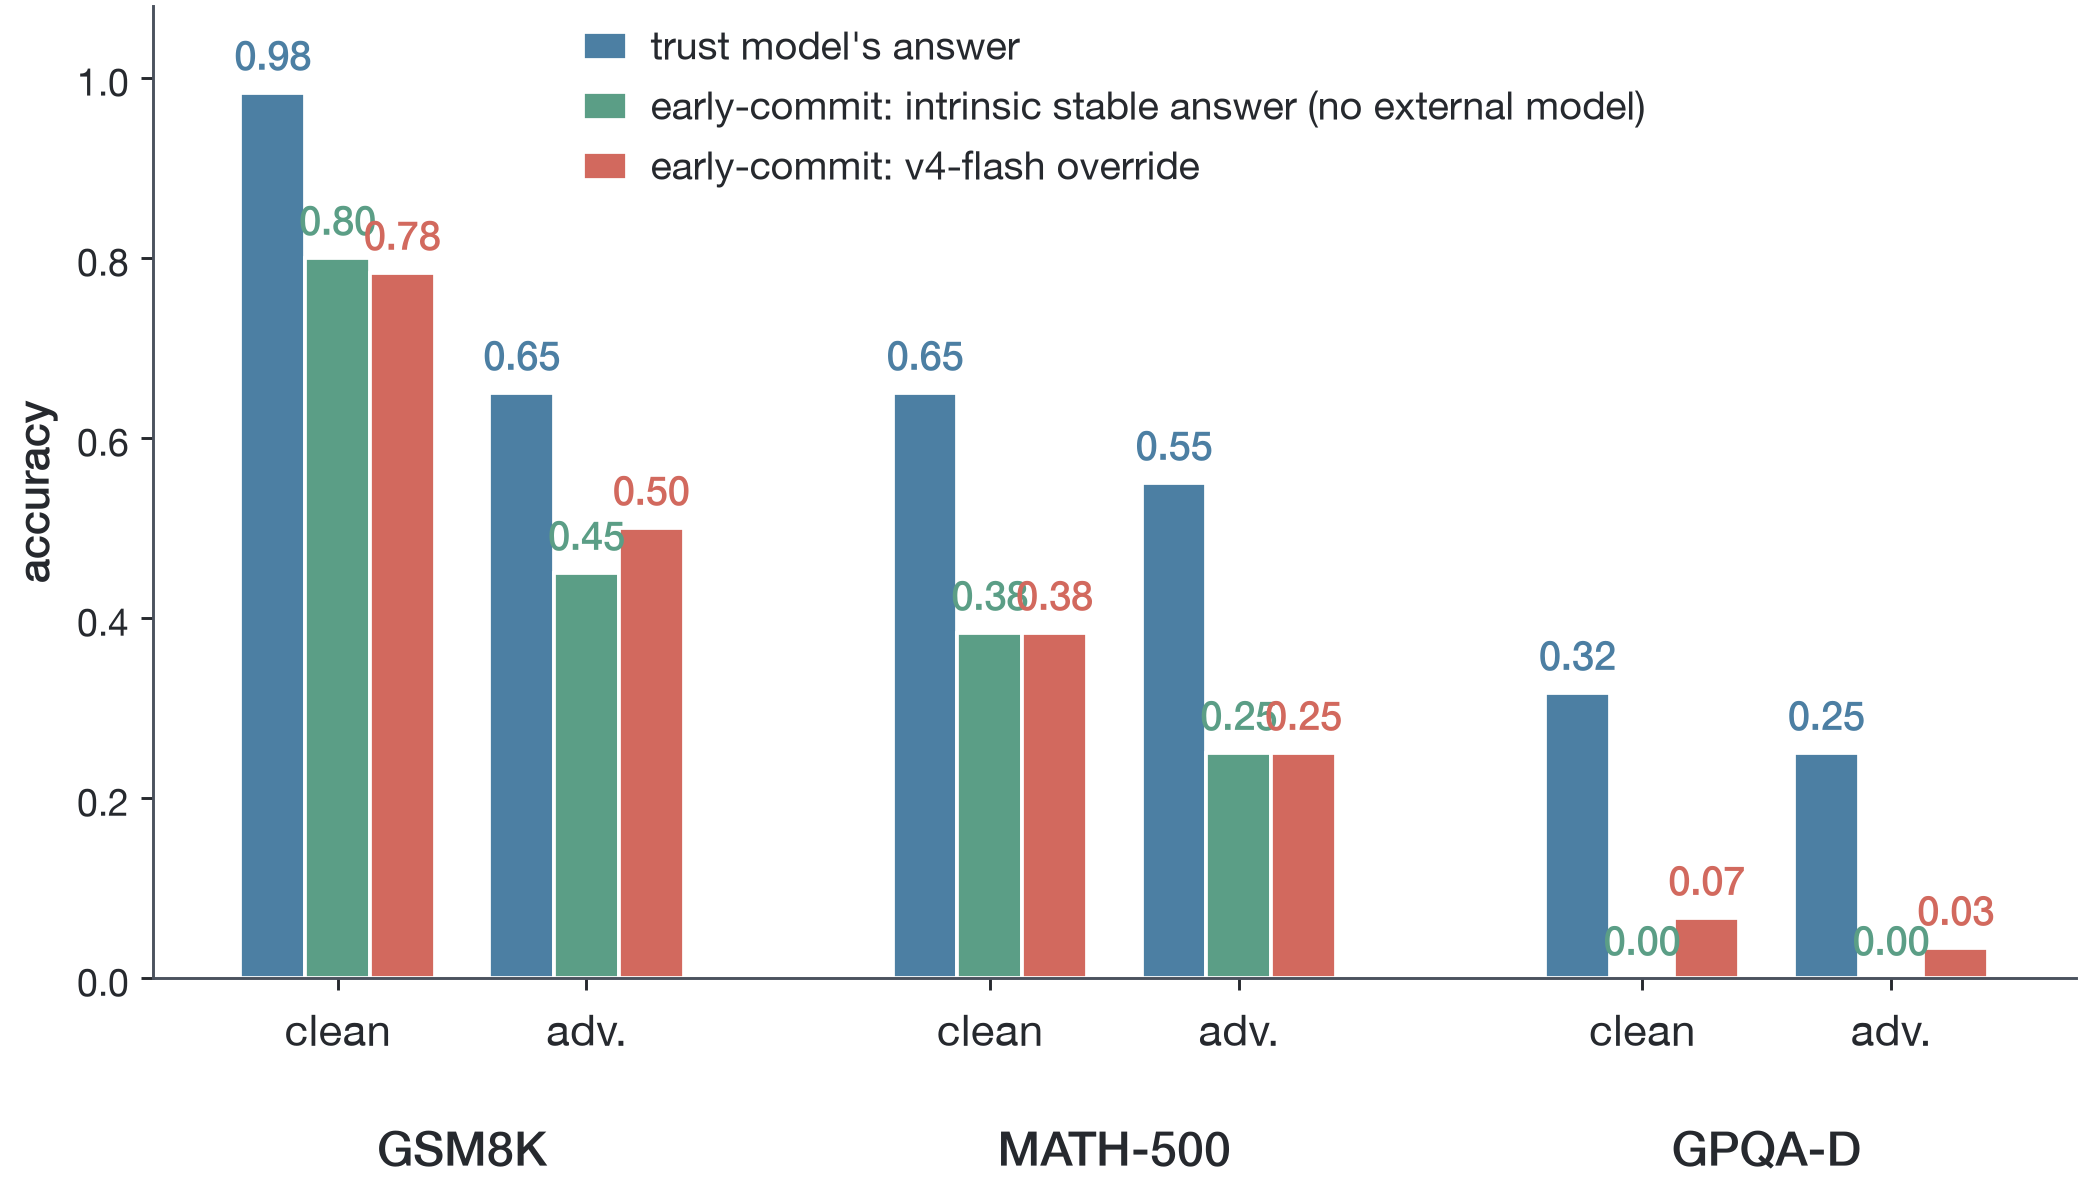
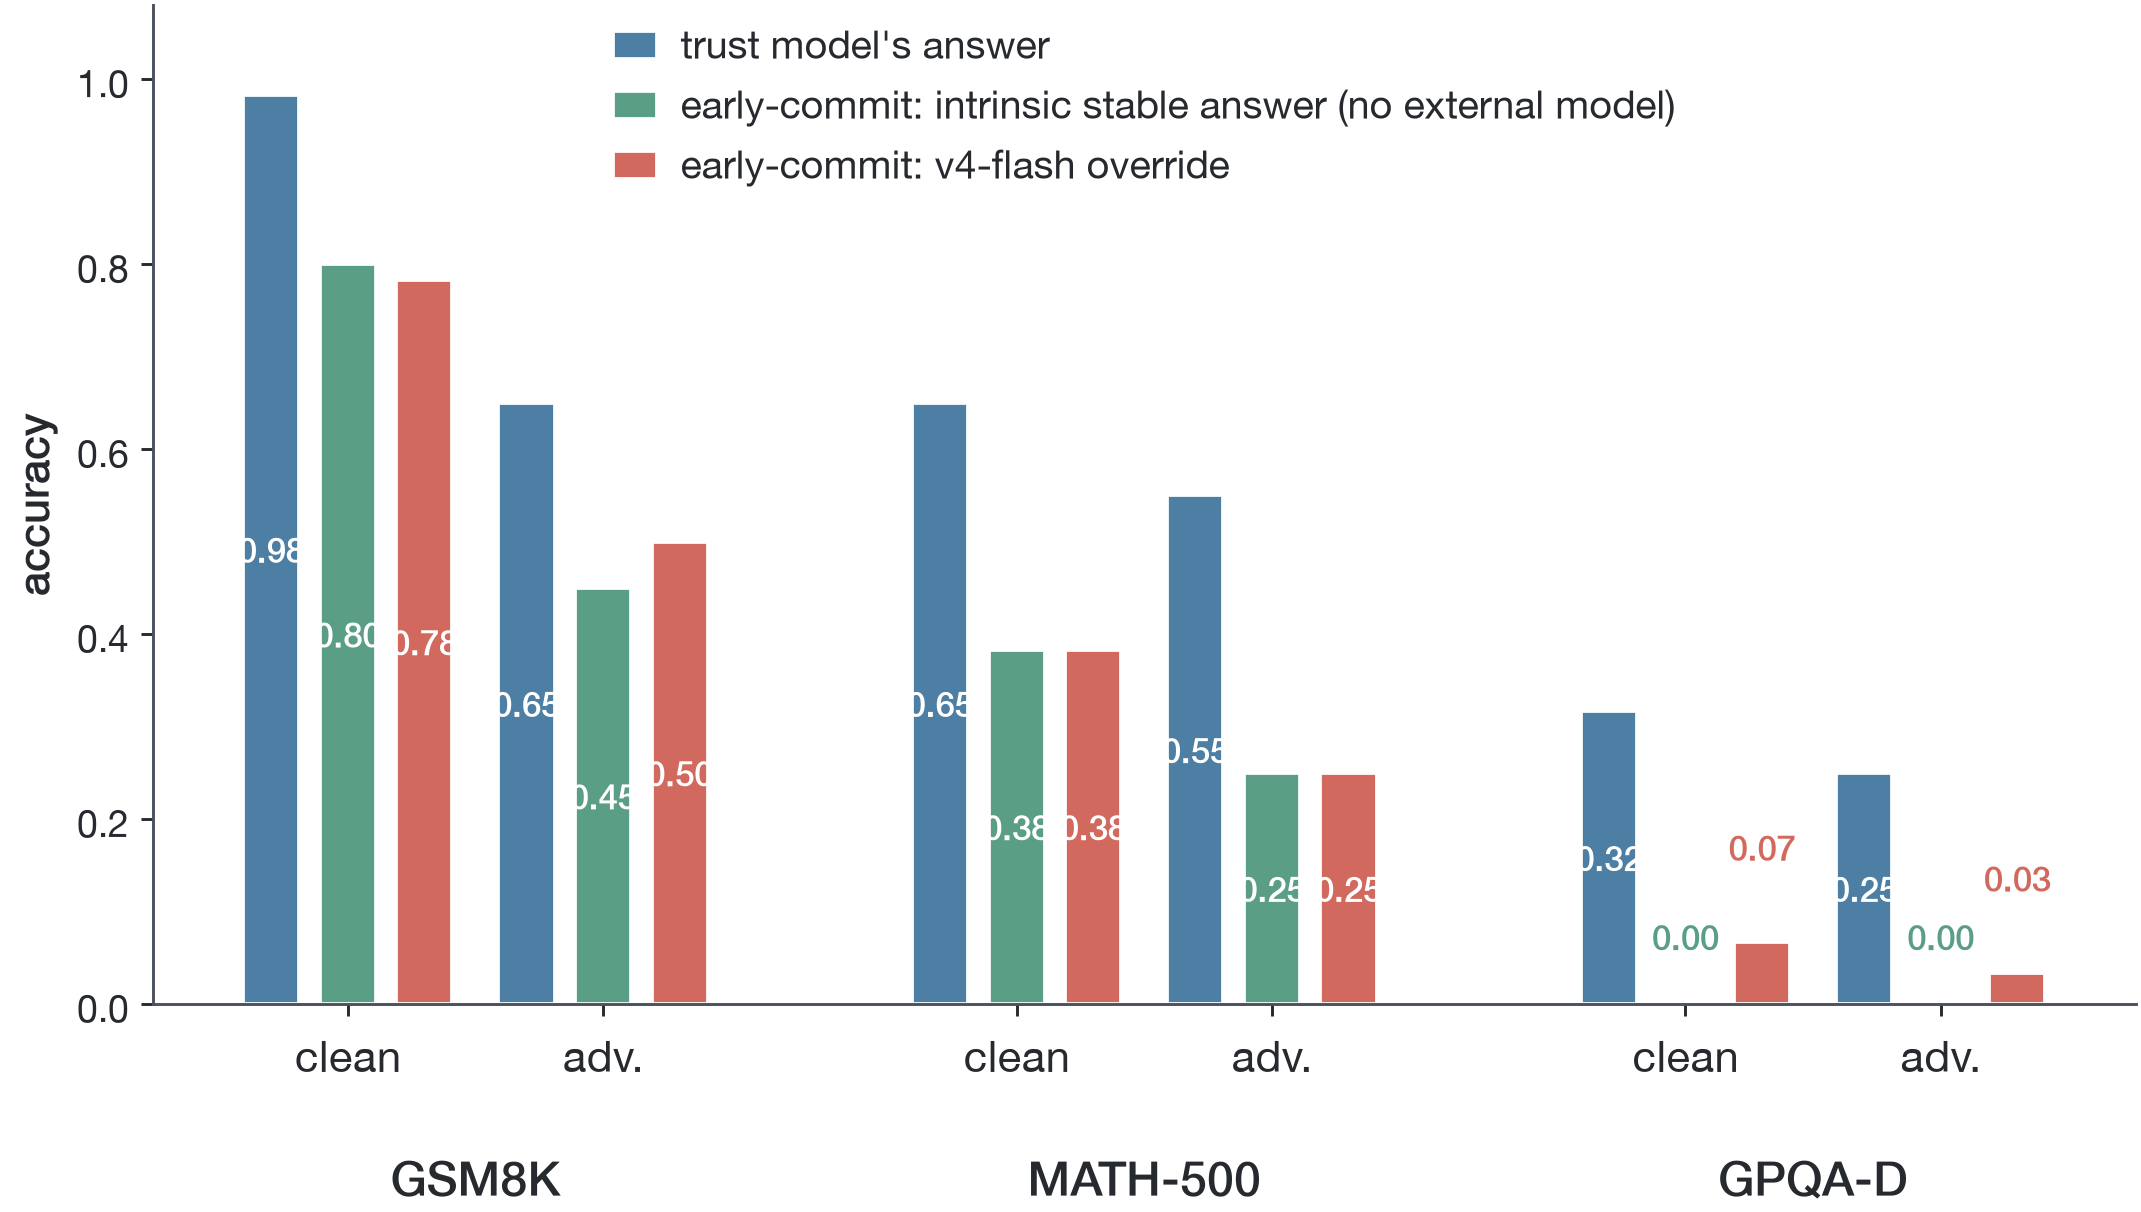
Fix overlapping bar labels in early-commit figure.
Place values inside taller bars and stagger labels above short bars.

diff --git a/scripts/make_figures.py b/scripts/make_figures.py
@@ -103,19 +103,24 @@ def fig_negative_earlycommit():
     # add a small gap between dataset blocks
     for i in range(len(x)):
         x[i] += 0.62 * (i // 2)
-    w = 0.26
-    fig, ax = plt.subplots(figsize=(7.2, 4.2))
+    w = 0.22
+    fig, ax = plt.subplots(figsize=(7.4, 4.3))
     series = [
-        (full, P["clean"], "trust model's answer", -w),
+        (full, P["clean"], "trust model's answer", -0.30),
         (stab, P["accent"], "early-commit: intrinsic stable answer (no external model)", 0.0),
-        (ec, P["adv"], "early-commit: v4-flash override", +w),
+        (ec, P["adv"], "early-commit: v4-flash override", +0.30),
     ]
-    for vals, col, lab, off in series:
+    stagger = (0.020, 0.050, 0.080)
+    for si, (vals, col, lab, off) in enumerate(series):
         ax.bar(x + off, vals, w, label=lab,
                **{k: v for k, v in bar_kw(col).items() if k != "width"})
         for xi, v in zip(x + off, vals):
-            ax.text(xi, v + 0.016, f"{v:.2f}", ha="center", va="bottom",
-                    fontsize=9.5, color=col, weight="medium")
+            if v >= 0.20:
+                ax.text(xi, v / 2, f"{v:.2f}", ha="center", va="center",
+                        fontsize=8.5, color="white", weight="medium")
+            else:
+                ax.text(xi, v + stagger[si], f"{v:.2f}", ha="center", va="bottom",
+                        fontsize=8.5, color=col, weight="medium")
     # two-tier x labels: condition under each bar-triple, dataset centered under the block
     ax.set_xticks(x)
     ax.set_xticklabels([CLAB[c] for _, c in keys], fontsize=10.5)
